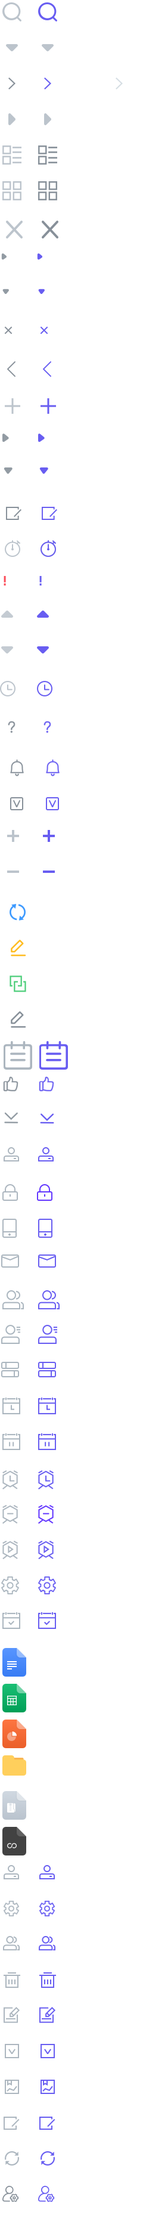
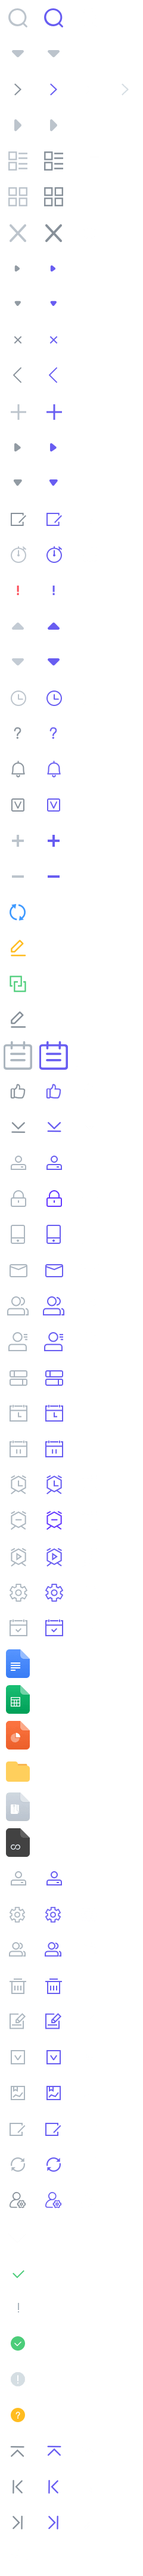
gx

diff --git a/src/views/overview/component/orgPage.vue b/src/views/overview/component/orgPage.vue
@@ -62,36 +62,30 @@
         ></tl-okr-table>
       </div>
     </template>
-
     <template v-else>
-      <div
-        class="tl-card-panel no-data"
-        v-if="$route.query.id"
-        style="box-shadow: none"
-      >
-        <span class="bg-no-data"></span>
+      <div class="no-data">
+        <div class="no-data-bg"></div>
+        <div class="no-data-txt">您暂未填写OKR</div>
+        <el-button
+          v-show="showLoad"
+          type="primary"
+          icon="el-icon-plus"
+          @click="
+            $router.push({
+              name: 'myOkr',
+              query: {
+                openWriteOkr: true,
+                periodId,
+              },
+            })
+          "
+          class="tl-btn amt-bg-slip"
+          >去创建OKR</el-button
+        >
       </div>
-
-      <el-button
-        v-else
-        v-show="showLoad"
-        type="primary"
-        icon="el-icon-plus"
-        @click="
-          $router.push({
-            name: 'myOkr',
-            query: {
-              openWriteOkr: true,
-              periodId,
-            },
-          })
-        "
-        class="tl-btn amt-bg-slip"
-        >去创建OKR</el-button
-      >
     </template>
     <div class="card-panel-body img-list" v-if="orgUser.length > 0">
-      <div>团队成员：</div>
+      <div>团队成员</div>
       <dl
         v-for="(item, index) in orgUser"
         :key="item.userId + index"
@@ -108,9 +102,9 @@
     </div>
     <div class="card-panel-body img-list" v-if="orgTable.length > 0">
       <div v-if="$route.name == 'teamleader' || $route.name == 'departleader'">
-        子部门：
+        子部门
       </div>
-      <div v-else>团队成员：</div>
+      <div v-else>团队成员</div>
       <dl
         v-for="(item, index) in orgTable"
         :key="item.orgId + index"

diff --git a/src/assets/styles/icons.css b/src/assets/styles/icons.css
@@ -9,7 +9,7 @@
   width: 30px;
   height: 30px;
   background: url('~@/assets/images/icon_30_y.png') 0 0 no-repeat;
-  background-size: 120px 420px;
+  background-size: 120px 270px;
 }
 
 .main-menu li:not(.is-active):hover i {
@@ -21,38 +21,38 @@
 }
 
 .main-menu .workbench i {
-  background-position-y: -150px;
-}
-
-.main-menu .okr-menu i {
-  background-position-y: -180px;
-}
-
-.main-menu .weekly-menu i {
-  background-position-y: -210px;
-}
-
-.main-menu .company-menu i {
-  background-position-y: 0;
-}
-
-.main-menu .sys-menu i {
   background-position-y: -120px;
 }
 
-.main-menu .task-menu i {
-  background-position-y: -90px;
+.main-menu .okr-menu i {
+  background-position-y: -150px;
 }
 
-.main-menu .note-menu i {
+.main-menu .weekly-menu i {
+  background-position-y: -180px;
+}
+
+.main-menu .project-menu i {
+  background-position-y: 0;
+}
+
+.main-menu .company-menu i {
   background-position-y: -240px;
 }
 
+.main-menu .sys-menu i {
+  background-position-y: -90px;
+}
 
+.main-menu .task-menu i {
+  background-position-y: -60px;
+}
 
+.main-menu .note-menu i {
+  background-position-y: -210px;
+}
 
-
-
+/* 删除 */
 .icon-clear {
   display: flex;
   align-items: center;
@@ -64,6 +64,26 @@
   cursor: pointer;
 }
 
+/* 暂无数据 */
+.no-data {
+  margin: 0 0 20px 0;
+  display: flex;
+  flex-direction: column;
+  align-items: center;
+}
+
+.no-data-bg {
+  width: 304px;
+  height: 180px;
+  background: url("~@/assets/images//no_data.png") no-repeat;
+}
+
+.no-data-txt {
+  margin: 20px 0 30px 0;
+  color: #879099;
+}
+
+/* change by xinquan */
 .bg-no-data {
   width: 400px;
   height: 400px;
@@ -73,7 +93,7 @@
   background: url("~@/assets/images/demoPic/nodata.png") no-repeat;
   background-size: 100%;
 }
-/* change by xinquan */
+
 .bg-no-data-blue {
   margin: 10% auto;
   width: 300px;

diff --git a/src/views/overview/departleader/index.vue b/src/views/overview/departleader/index.vue
@@ -89,8 +89,7 @@ export default {
       orgUser: [],
       riskList: [],
       swiperOption: {
-        slidesPerView: 6,
-        spaceBetween: 30,
+        spaceBetween: 10,
       },
     };
   },

diff --git a/src/assets/styles/pages.css b/src/assets/styles/pages.css
@@ -314,6 +314,7 @@
 
 .overview .img-list dl {
   margin: 0 10px 0 0;
+  width: 86px;
 }
 
 .department-view .tl-card-panel-group {
